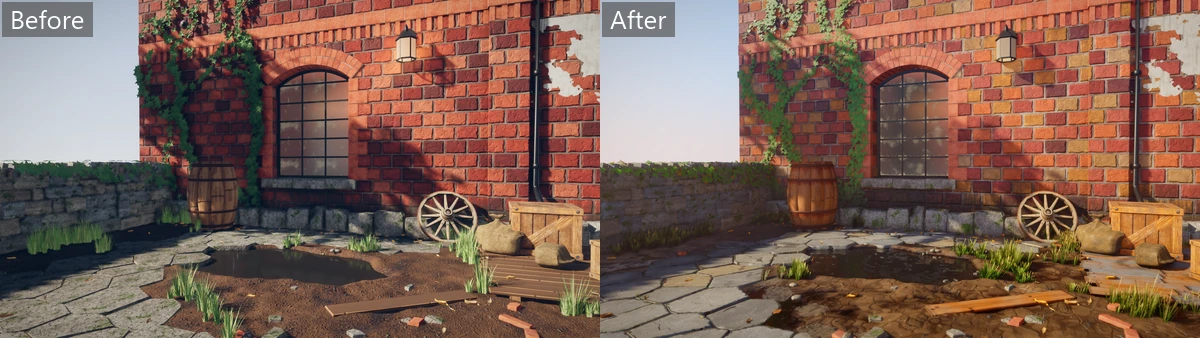
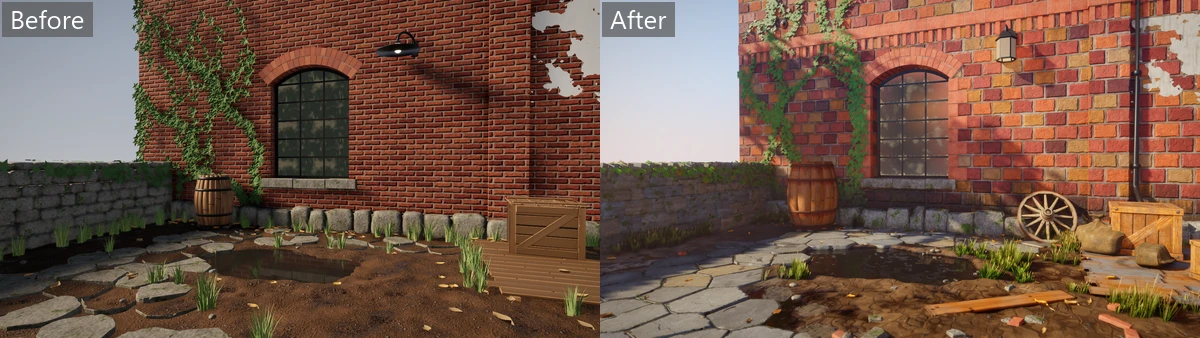
docs: compare the Courtyard with how it looked when it was first built

diff --git a/docs/rendering.md b/docs/rendering.md
@@ -35,10 +35,11 @@ And when a scene asks for it:
 - [Wear and dirt](#wear-and-dirt) on edges and in hollows, from masks the cook bakes from the mesh
 - A [render scale](#graphics-settings) that draws the scene smaller or larger than the window, and [AMD FSR](#upscaling) to rebuild the full picture from a smaller one
 
-The [Courtyard example](../examples/Courtyard) uses most of them. Here it is before and
-after they and its materials were reworked, from the same camera and the same frame:
+The [Courtyard example](../examples/Courtyard) uses most of them. On the left is the
+Courtyard on the evening it was first built, on 6 November 2026; on the right is how it
+looks now, at the same seed and frame:
 
-![The Courtyard before and after: on the left orange-red bricks, a few bright green grass tufts, a dark flat puddle and smooth brown mud; on the right bricks from plum to pale buff, ivy of leaf cards, grey and sandstone flagstones, coarse mud with gravel, a puddle that mirrors the yard, weathered deck boards and a window that reflects the courtyard](media/courtyard-realism.webp)
+![The Courtyard before and after: on the left even dark-red bricks, star-shaped ivy, rows of bright green grass tufts, round stepping stones in smooth brown mud and a plain crate on a deck; on the right bricks from plum to pale buff, ivy of leaf cards, grey and sandstone flagstones, coarse mud with gravel, a puddle that mirrors the yard, weathered deck boards and a window that reflects the courtyard](media/courtyard-realism.webp)
 
 ## Graphics settings
 
